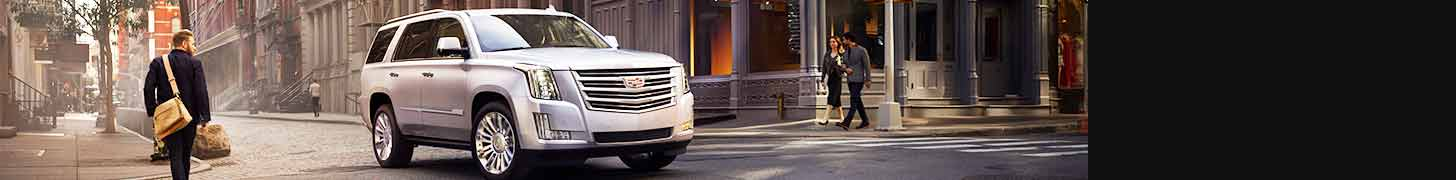
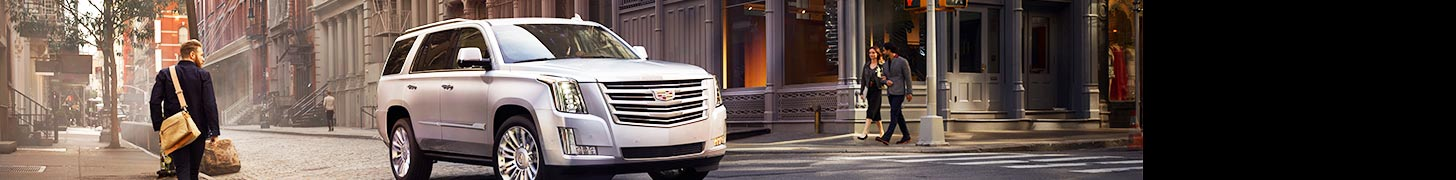
New Animations and background

diff --git a/app/rich/templates/js/animations/en/320x50.js b/app/rich/templates/js/animations/en/320x50.js
@@ -2,15 +2,12 @@ var easeIn = Power1.easeIn;
 var easeOut = Power1.easeOut;
 var timeline = new TimelineLite({onComplete: onComplete}); 
         timeline.add('frame1')
-            .addDelay(2)
+            .addDelay(2.7)
             .to('.copy1', 1, { opacity: 0 })
             .to('.background1', 13, { scale: 1.1 }, '-=3')
 			.to('.copy2, .copy4', 1, {opacity: 1 }, '-=9')
 			.to('.vertical-bar', 1, {opacity: 0.5 }, '-=9')
-			.addDelay(1)
-			.to('.copy2', 1, {opacity: 0 }, '-=7')
-			.to('.copy3', 1, {opacity: 1 }, '-=5')
+			.addDelay(2.7)
+			.to('.copy2, .copy4, .vertical-bar', 1, {opacity: 0}, '-=7')
+			.to('.copy3, .cta', 1, {opacity: 1}, '-=5')
 		timeline.add('frame2')
-			.to('.copy4, .vertical-bar', 0.5, {opacity: 0}, '-=3')
-			.to('.cta', 0.5, {opacity: 1}, '-=2')
-		timeline.add('frame3')

diff --git a/app/rich/templates/js/animations/en/300x600.js b/app/rich/templates/js/animations/en/300x600.js
@@ -2,15 +2,11 @@ var easeIn = Power1.easeIn;
 var easeOut = Power1.easeOut;
 var timeline = new TimelineLite({onComplete: onComplete}); 
         timeline.add('frame1')
-            .addDelay(2)
+            .addDelay(2.7)
             .to('.copy1', 1, { opacity: 0 })
             .to('.background1', 13, { scale: 1.1 }, '-=3')
 			.to('.copy2', 1, {opacity: 1 }, '-=9')
-			.addDelay(1)
-			.to('.copy2', 1, {opacity: 0 }, '-=7')
-			.to('.copy3', 1, {opacity: 1 }, '-=5')
-			.addDelay(1)
+			.addDelay(2.7)
+			.to('.copy2, .copy4, .vertical-bar', 1, {opacity: 0}, '-=7')
+			.to('.copy3, .cta', 1, {opacity: 1}, '-=5')
 		timeline.add('frame2')
-			.to('.copy4, .vertical-bar', 0.5, {opacity: 0}, '-=3')
-			.to('.cta', 0.5, {opacity: 1}, '-=2')
-		timeline.add('frame3')

diff --git a/app/rich/templates/js/animations/en/160x600.js b/app/rich/templates/js/animations/en/160x600.js
@@ -1,15 +1,14 @@
 var easeIn = Power1.easeIn;
-var easeOut = Power1.easeOut;
+var easeOut = Power0.easeNone;
 var timeline = new TimelineLite({onComplete: onComplete}); 
 		timeline.add('frame1')
+			.addDelay(2.7)
 			.to('.copy1', 1, {opacity: 0})
+			.to('.background1', 1, {ease: easeOut, left: 0 }, '-=1')
 		timeline.add('frame2')
 			.to('.copy2', 1, {opacity: 1})
-			.to('.background1', 1, { left: 0 })
+			.addDelay(2.7)
 		timeline.add('frame3')
-			.to('.copy2', 1, {opacity: 0})
-			.to('.copy3', 1, {opacity: 1})
+			.to('.copy2, .copy4, .vertical-bar', 1, {opacity: 0})
+			.to('.copy3, .cta', 1, {opacity: 1})
 		timeline.add('frame4')
-			.to('.copy4, .vertical-bar', 1, {opacity: 0})
-			.to('.cta', 1, {opacity: 1})
-		timeline.add('frame5')

diff --git a/app/rich/templates/js/animations/en/728x90.js b/app/rich/templates/js/animations/en/728x90.js
@@ -2,14 +2,11 @@ var easeIn = Power1.easeIn;
 var easeOut = Power1.easeOut;
 var timeline = new TimelineLite({onComplete: onComplete}); 
         timeline.add('frame1')
-            .addDelay(2)
+            .addDelay(2.7)
             .to('.copy1', 1, { opacity: 0 })
             .to('.background1', 13, { scale: 1.1 }, '-=3')
 			.to('.copy2', 1, {opacity: 1 }, '-=9')
-			.addDelay(1)
-			.to('.copy2', 1, {opacity: 0 }, '-=7')
-			.to('.copy3', 1, {opacity: 1 }, '-=5')	
+			.addDelay(2.7)
+			.to('.copy2, .copy4, .vertical-bar', 1, {opacity: 0}, '-=7')
+			.to('.copy3, .cta', 1, {opacity: 1}, '-=5')
 		timeline.add('frame2')
-			.to('.copy4, .vertical-bar', 0.5, {opacity: 0}, '-=3')
-			.to('.cta', 0.5, {opacity: 1}, '-=2')
-		timeline.add('frame3')

diff --git a/app/rich/templates/js/animations/en/300x250.js b/app/rich/templates/js/animations/en/300x250.js
@@ -2,14 +2,11 @@ var easeIn = Power1.easeIn;
 var easeOut = Power1.easeOut;
 var timeline = new TimelineLite({onComplete: onComplete}); 
         timeline.add('frame1')
-            .addDelay(2)
+            .addDelay(2.7)
             .to('.copy1', 1, { opacity: 0 })
             .to('.background1', 13, { scale: 1.1 }, '-=3')
 			.to('.copy2', 1, {opacity: 1 }, '-=9')
-			.addDelay(1)
-			.to('.copy2', 1, {opacity: 0 }, '-=7')
-			.to('.copy3', 1, {opacity: 1 }, '-=5')
+			.addDelay(2.7)
+			.to('.copy2, .copy4, .vertical-bar', 1, {opacity: 0}, '-=7')
+			.to('.copy3, .cta', 1, {opacity: 1}, '-=5')
 		timeline.add('frame2')
-			.to('.copy4, .vertical-bar', 0.5, {opacity: 0}, '-=3')
-			.to('.cta', 0.5, {opacity: 1}, '-=2')
-		timeline.add('frame3')
